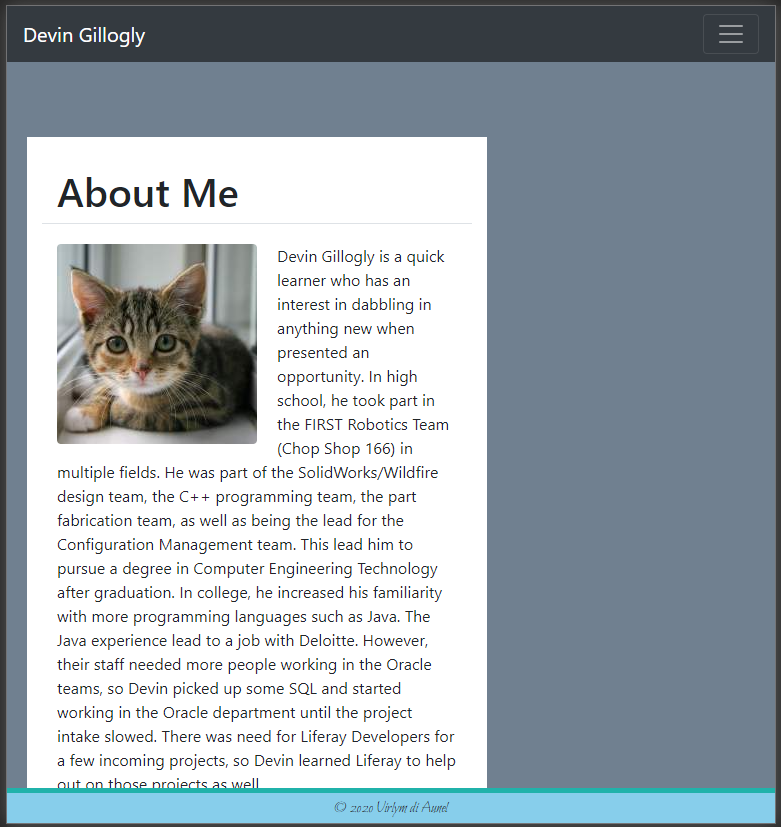
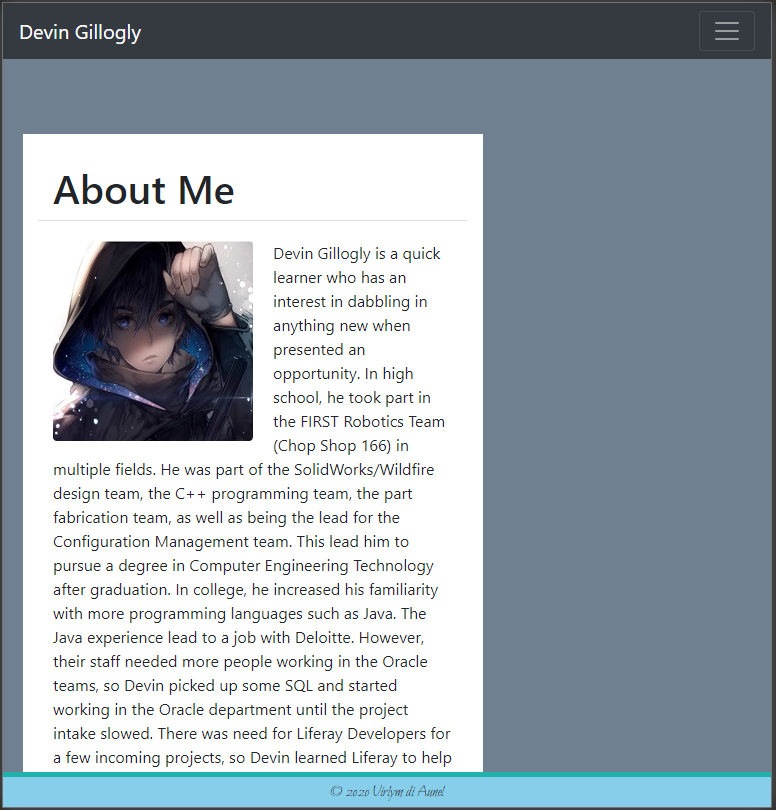
updated portfolio and some pix

Changed region(s): [[0.0, 0.0, 1.0, 1.0], [0.8969, 0.0, 0.9588, 0.0617]]

diff --git a/portfolio.html b/portfolio.html
@@ -38,15 +38,90 @@
     </section>
     <section class="row">
       <article class="col-lg-6">
-        <img src="https://placekitten.com/350/350" class="figure-img img-fluid rounded folio-img" alt="placeholder img">
+        <img src="./Assets/GymBroSized.png" class="figure-img img-fluid rounded folio-img" id = "gymBroPic" alt="GymBro img" data-toggle="modal" data-target="#gymModal">
+        <figcaption> GymBro (group project) </figcaption>
+        <aside class="modal fade" id="gymModal" tabindex="-1" role="dialog" aria-labelledby="gymModalLabel" aria-hidden="true">
+          <div class="modal-dialog modal-lg" role="document">
+            <div class="modal-content">
+              <div class="modal-header">
+                <h5 class="modal-title" id="gymModalLabel">GymBro</h5>
+                <button type="button" class="close" data-dismiss="modal" aria-label="Close">
+                  <span aria-hidden="true">&times;</span>
+                </button>
+              </div>
+              <div class="modal-body">
+                <img src="./Assets/GymBro.png" class="img-fluid rounded" alt="GymBro modal img">
+                <p>GymBro is a browser based workout generator that allows you to pick certain criteria such as legs, arms, chest, etc, to generate a workout. Other selectors include workout intensity. In addition to providing you with a great workout we have also provided the user with the option to choose a music playlist to accompany the workout, using Spotify. Users can even save their last workout to LocalStorage and recall it as long keep their browser open!
+                </p>
+                <p> GitHub : <a href="https://github.com/dan-gentile/gym-bro" target="_blank">link</a>
+                </p>
+                <p>Deployed : <a href="https://dan-gentile.github.io/gym-bro/" target="_blank">link</a>
+                </p>
+              </div>
+              <div class="modal-footer">
+                <button type="button" class="btn btn-primary" data-dismiss="modal">Close</button>
+              </div>
+            </div>
+          </div>
+        </aside>
       </article>
       <article class="col-lg-6">
-        <img src="https://placekitten.com/350/350" class="figure-img img-fluid rounded folio-img" alt="placeholder img">
+        <img src="./Assets/dashboardExampleSized.PNG" class="figure-img img-fluid rounded folio-img" id = "weatherDashPic" alt="Weather Dashboard img" data-toggle="modal" data-target="#dashModal">
+        <figcaption> Weather Dashboard </figcaption>
+        <aside class="modal fade" id="dashModal" tabindex="-1" role="dialog" aria-labelledby="dashModalLabel" aria-hidden="true">
+          <div class="modal-dialog modal-lg" role="document">
+            <div class="modal-content">
+              <div class="modal-header">
+                <h5 class="modal-title" id="dashModalLabel">Weather Dashboard</h5>
+                <button type="button" class="close" data-dismiss="modal" aria-label="Close">
+                  <span aria-hidden="true">&times;</span>
+                </button>
+              </div>
+              <div class="modal-body">
+                <img src="./Assets/dashboardExample.PNG" class="img-fluid rounded" alt="weather dashboard modal img">
+                <p>Utilizing the free OpenWeather API, this application retrieves weather data for cities for the current day, as well as a five-day forecast. The last ten searched cities are saved in local storage and displayed on the screen so the user can easily check a previously searched city.
+                </p>
+                <p> GitHub : <a href="https://github.com/virlym/hw6-weather-forecast" target="_blank">link</a>
+                </p>
+                <p>Deployed : <a href="https://virlym.github.io/hw6-weather-forecast/" target="_blank">link</a>
+                </p>
+              </div>
+              <div class="modal-footer">
+                <button type="button" class="btn btn-primary" data-dismiss="modal">Close</button>
+              </div>
+            </div>
+          </div>
+        </aside>
       </article>
     </section>
     <section class="row">
       <article class="col-lg-6">
-        <img src="https://placekitten.com/350/350" class="figure-img img-fluid rounded folio-img" alt="placeholder img">
+        <img src="./Assets/passwordGeneratorSized.PNG" class="figure-img img-fluid rounded folio-img" id = "passGenPic" alt="Password Generator img" data-toggle="modal" data-target="#passModal">
+        <figcaption> Password Generator </figcaption>
+        <aside class="modal fade" id="passModal" tabindex="-1" role="dialog" aria-labelledby="passModalLabel" aria-hidden="true">
+          <div class="modal-dialog modal-lg" role="document">
+            <div class="modal-content">
+              <div class="modal-header">
+                <h5 class="modal-title" id="passModalLabel">Password Generator</h5>
+                <button type="button" class="close" data-dismiss="modal" aria-label="Close">
+                  <span aria-hidden="true">&times;</span>
+                </button>
+              </div>
+              <div class="modal-body">
+                <img src="./Assets/passwordGenerator.PNG" class="img-fluid rounded" alt="password generator modal img">
+                <p>Utilizing existing HTML and CSS, javascript code was written to generate a password based on user inputs. When the user presses the generate password button, they will be prompted with a series of questions. A password is then constructed using random values of the selected inputs until it is the desired length.
+                </p>
+                <p> GitHub : <a href="https://github.com/virlym/hw3-password-generator" target="_blank">link</a>
+                </p>
+                <p>Deployed : <a href="https://virlym.github.io/hw3-password-generator/" target="_blank">link</a>
+                </p>
+              </div>
+              <div class="modal-footer">
+                <button type="button" class="btn btn-primary" data-dismiss="modal">Close</button>
+              </div>
+            </div>
+          </div>
+        </aside>
       </article>
       <article class="col-lg-6">
         <img src="https://placekitten.com/350/350" class="figure-img img-fluid rounded folio-img" alt="placeholder img">
@@ -75,6 +150,7 @@
   <script src="https://stackpath.bootstrapcdn.com/bootstrap/4.1.3/js/bootstrap.min.js"
     integrity="sha384-ChfqqxuZUCnJSK3+MXmPNIyE6ZbWh2IMqE241rYiqJxyMiZ6OW/JmZQ5stwEULTy"
     crossorigin="anonymous"></script>
+    <script src="./js/script.js"></script>
 </body>
 
 </html>

diff --git a/index.html b/index.html
@@ -38,7 +38,7 @@
     </section>
     <section class="row">
       <article class="col-lg-12">
-        <img src="https://placekitten.com/200/200" class="rounded float-left about-img" alt="placeholder image">
+        <img src="./Assets/hood.JPG" class="rounded float-left about-img" alt="placeholder image">
         <p>Devin Gillogly is a quick learner who has an interest in dabbling in anything new when presented an
           opportunity. In high school, he took part in the FIRST Robotics Team (Chop Shop 166) in multiple fields. He
           was part of the SolidWorks/Wildfire design team, the C++ programming team, the part fabrication team, as well
@@ -56,6 +56,10 @@
           study for a time. This gap has left some rust in the field, and encouraged the joining of a UW Boot Camp
           focused on the front-end of programming. While his previous experience was mostly back-end and embedded work,
           the Boot Camp could provide a new learning area, as well as help dust the rust off the back-end knowledge.
+        </p>
+        <p> <a href="https://github.com/virlym" target="_blank">GitHub</a> <br> 
+          <a href="https://www.linkedin.com/in/virlym/" target="_blank">LinkedIn</a> <br>
+          <a href = "https://drive.google.com/file/d/1k-lcoBlJhZdjbmpKTIygGQgwASJP7o1D/view?usp=sharing" target = "blank"> Resume </a>
         </p>
       </article>
     </section>
@@ -75,6 +79,7 @@
   <script src="https://stackpath.bootstrapcdn.com/bootstrap/4.1.3/js/bootstrap.min.js"
     integrity="sha384-ChfqqxuZUCnJSK3+MXmPNIyE6ZbWh2IMqE241rYiqJxyMiZ6OW/JmZQ5stwEULTy"
     crossorigin="anonymous"></script>
+    <script src="./js/script.js"></script>
 </body>
 
 </html>

diff --git a/css/style.css b/css/style.css
@@ -7,6 +7,15 @@ p{
     margin: 20px auto;
 }
 
+figcaption{
+    text-align: center;
+}
+
+.modal-header,
+.modal-footer{
+    background-color: slategray;
+}
+
 /*keeping the wrappers on each page uniform, while also visually similar to the model pages */
 .content-wrap{
     position: relative;
@@ -26,8 +35,7 @@ p{
 
 /* modify the margins for the portfolio page so that the images are spaced properly and will transition to 1 or 2 per line depending on screen size */
 .folio-img{
-    
-     margin: 40px auto 0px auto;
+    margin: 40px auto 0px auto;
     /* saved dimensions to match the model page's picture dimensions if using non-350x350 pictures
     height: 260px;
     width: 260px;

diff --git a/contact.html b/contact.html
@@ -72,6 +72,7 @@
   <script src="https://stackpath.bootstrapcdn.com/bootstrap/4.1.3/js/bootstrap.min.js"
     integrity="sha384-ChfqqxuZUCnJSK3+MXmPNIyE6ZbWh2IMqE241rYiqJxyMiZ6OW/JmZQ5stwEULTy"
     crossorigin="anonymous"></script>
+    <script src="./js/script.js"></script>
 </body>
 
 </html>

diff --git a/js/script.js b/js/script.js
@@ -1,0 +1,7 @@
+// $("#gymBroPic").on('click','#pop',function () {
+//     $('#gymModal').modal('show'); 
+// });
+
+// $('#gymModal').on('shown.bs.modal', function () {
+//     $('#myInput').trigger('focus')
+// })s

diff --git a/README.md b/README.md
@@ -8,6 +8,7 @@ Key code includes:
 3) Use of semantic html
 4) Utilizes Bootstrap components and grid system
 5) Has a sticky footer
+6) includes links to a project and two homework assignments
 
 github repo : https://github.com/virlym/hw2-responsive-portfolio
 
